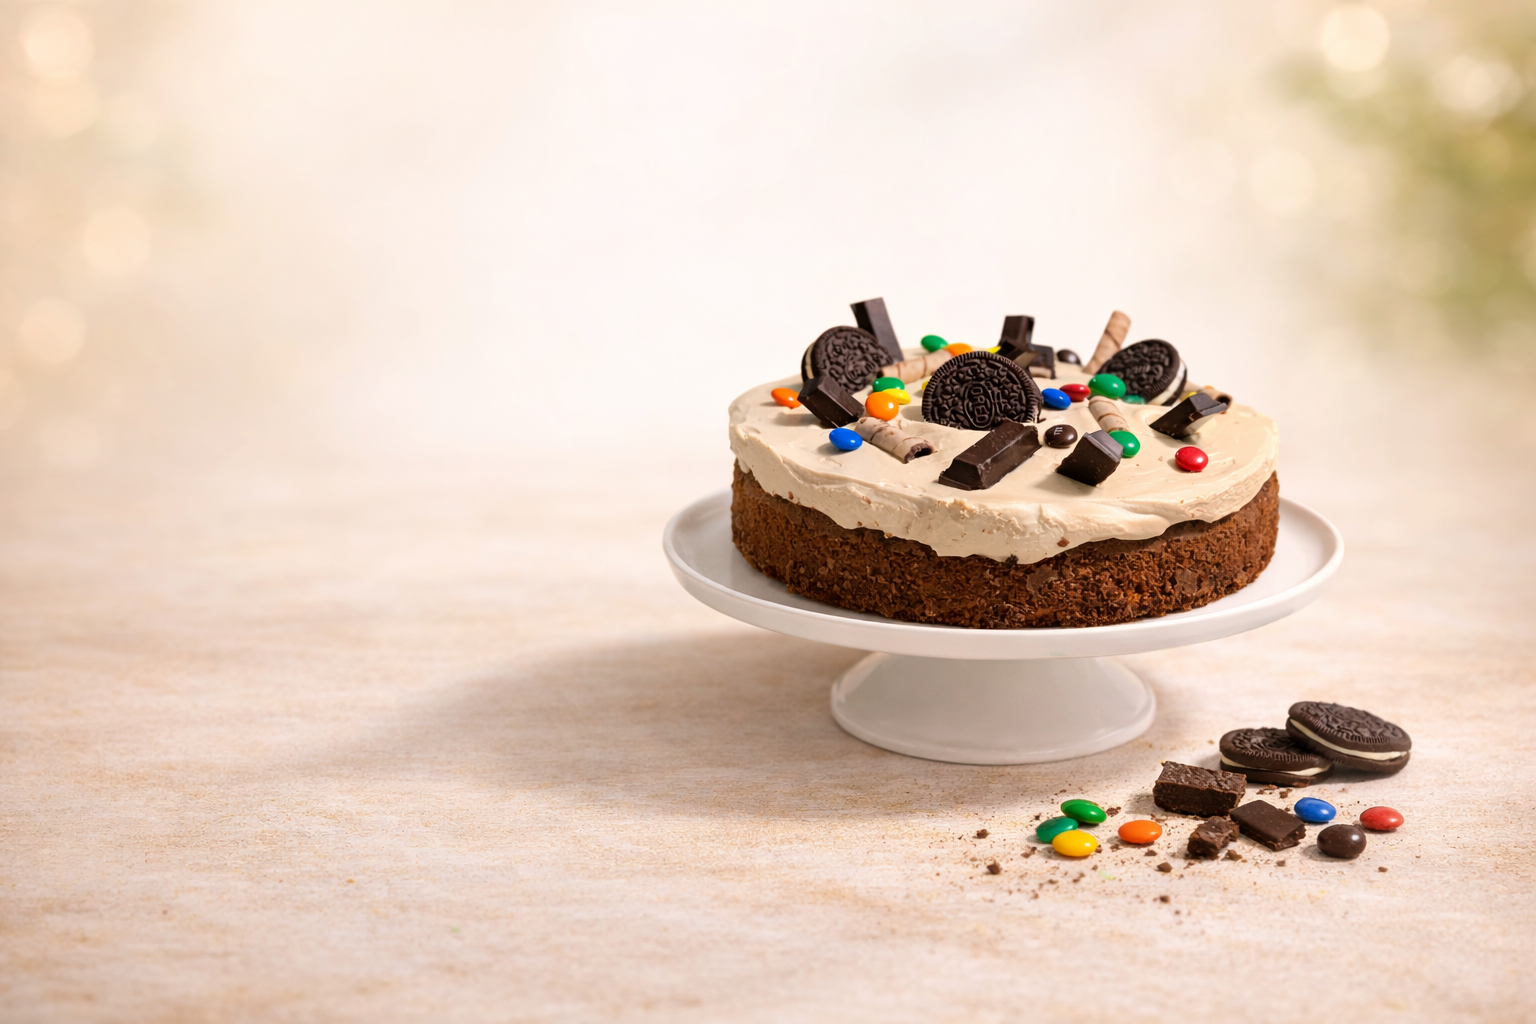
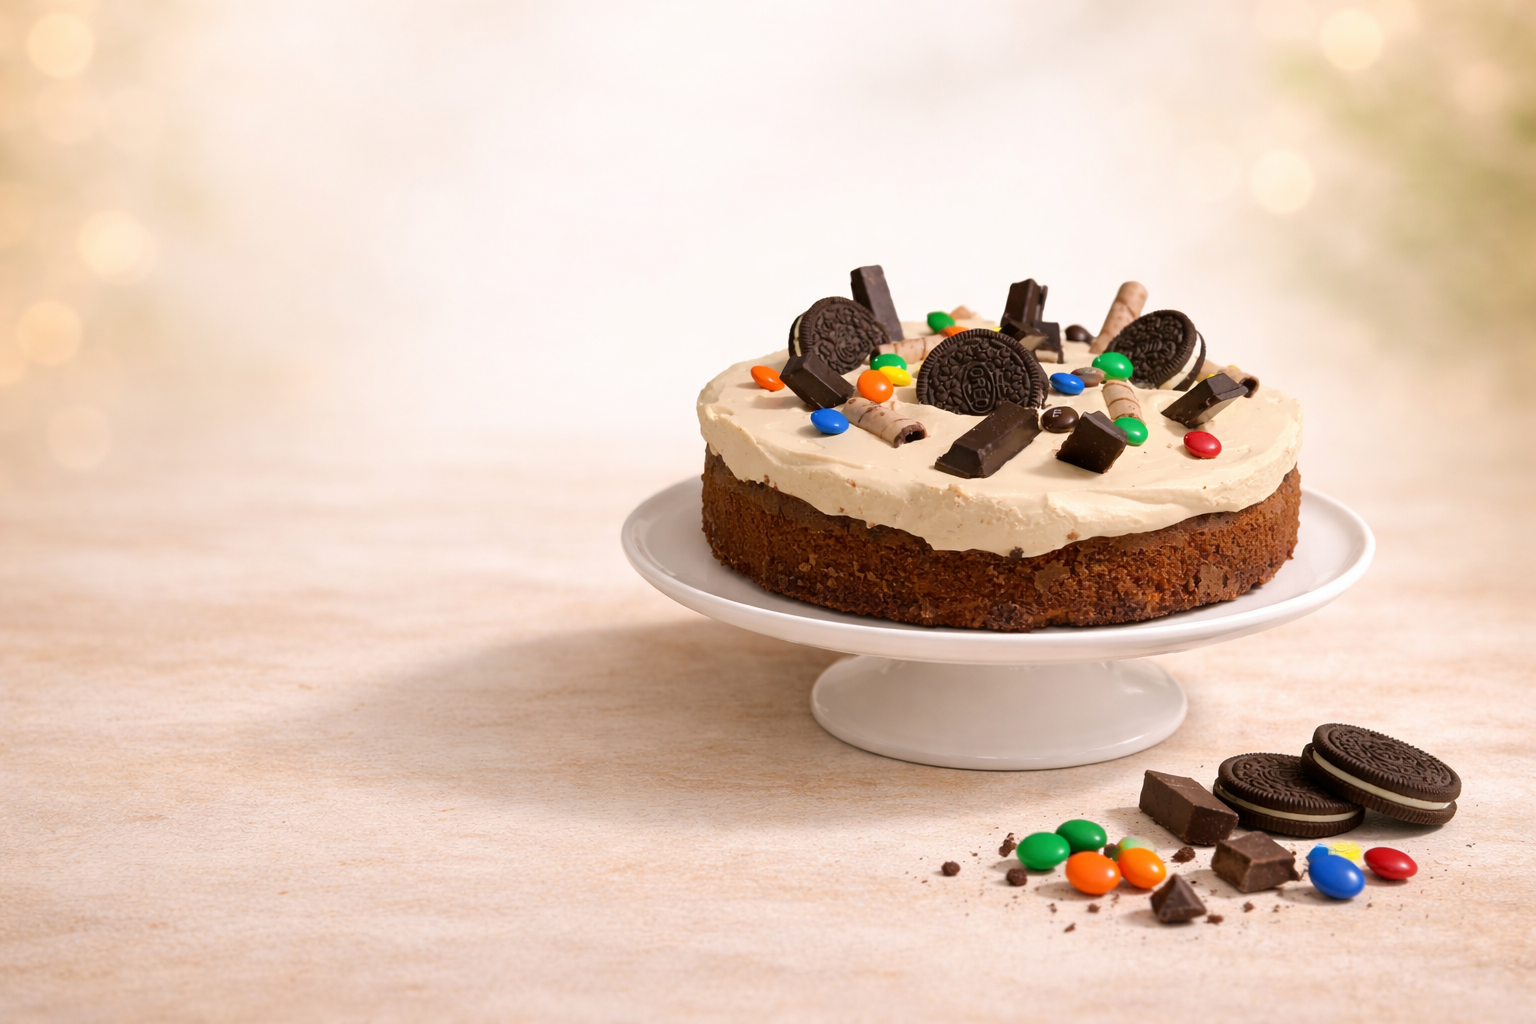
uploaded new photos

diff --git a/index.html b/index.html
@@ -65,58 +65,94 @@
       <div class="container">
         <div class="section-head">
           <h2>Explore Our Treats</h2>
-          <p class="section-sub">Small-batch desserts crafted with care and the finest ingredients.</p>
+          <p class="section-sub">Small-batch homemade goodness crafted with care and the finest ingredients.</p>
         </div>
 
-        <div class="product-grid">
-          <article class="product-card">
-            <div class="card-image">
-              <img src="https://images.unsplash.com/photo-1572442388796-11668a67e53d?w=400&h=300&fit=crop&q=80" alt="Handcrafted cookies with latte" loading="lazy">
-            </div>
-            <div class="card-body">
-              <div class="card-top">
-                <h3>Cookies Collection</h3>
-                <a href="#order" class="card-arrow" aria-label="Order cookies">
-                  <svg width="14" height="14" viewBox="0 0 24 24" fill="none" stroke="currentColor" stroke-width="2.5" stroke-linecap="round" stroke-linejoin="round"><path d="M5 12h14"/><path d="M12 5l7 7-7 7"/></svg>
-                </a>
+        <!-- Cookies -->
+        <div class="family-row">
+          <div class="family-header">
+            <div class="family-meta">
+              <span class="family-num">01</span>
+              <div>
+                <h3 class="family-title">Cookies</h3>
+                <p class="family-desc">Handcrafted small-batch — every bite tells a story.</p>
               </div>
-              <p class="card-tag">Small Batch</p>
-              <a href="#order" class="card-link">Order Now &#9654;</a>
             </div>
-          </article>
-
-          <article class="product-card">
-            <div class="card-image">
-              <img src="https://images.unsplash.com/photo-1571877227200-a0d98ea607e9?w=400&h=300&fit=crop&q=80" alt="Signature layered cake" loading="lazy">
+            <a href="#order" class="family-cta">Order Now <span class="family-cta-arrow">&#9654;</span></a>
+          </div>
+          <div class="family-images family-images--three">
+            <div class="family-img-wrap">
+              <img src="images/cookie1.png" alt="Handcrafted cookie" loading="lazy">
             </div>
-            <div class="card-body">
-              <div class="card-top">
-                <h3>Signature Cakes</h3>
-                <a href="#order" class="card-arrow" aria-label="Order cakes">
-                  <svg width="14" height="14" viewBox="0 0 24 24" fill="none" stroke="currentColor" stroke-width="2.5" stroke-linecap="round" stroke-linejoin="round"><path d="M5 12h14"/><path d="M12 5l7 7-7 7"/></svg>
-                </a>
-              </div>
-              <p class="card-tag">Custom Made</p>
-              <a href="#order" class="card-link">Order Now &#9654;</a>
+            <div class="family-img-wrap">
+              <img src="images/cookie2.png" alt="Assorted cookies" loading="lazy">
             </div>
-          </article>
-
-          <article class="product-card">
-            <div class="card-image">
-              <img src="https://images.unsplash.com/photo-1565958011703-44f9829ba187?w=400&h=300&fit=crop&q=80" alt="Artisanal sour treats" loading="lazy">
+            <div class="family-img-wrap">
+              <img src="images/cookie3.png" alt="Premium cookie selection" loading="lazy">
             </div>
-            <div class="card-body">
-              <div class="card-top">
-                <h3>Sour Snacks</h3>
-                <a href="#order" class="card-arrow" aria-label="Order sour snacks">
-                  <svg width="14" height="14" viewBox="0 0 24 24" fill="none" stroke="currentColor" stroke-width="2.5" stroke-linecap="round" stroke-linejoin="round"><path d="M5 12h14"/><path d="M12 5l7 7-7 7"/></svg>
-                </a>
-              </div>
-              <p class="card-tag">Artisanal</p>
-              <a href="#order" class="card-link">Order Now &#9654;</a>
-            </div>
-          </article>
+          </div>
         </div>
+
+        <!-- Cakes -->
+        <div class="family-row">
+          <div class="family-header">
+            <div class="family-meta">
+              <span class="family-num">02</span>
+              <div>
+                <h3 class="family-title">Signature Cakes</h3>
+                <p class="family-desc">Custom made to order — for every celebration.</p>
+              </div>
+            </div>
+            <a href="#order" class="family-cta">Order Now <span class="family-cta-arrow">&#9654;</span></a>
+          </div>
+          <div class="family-images family-images--single">
+            <div class="family-img-wrap">
+              <img src="images/cake1.jpg" alt="Signature layered cake" loading="lazy">
+            </div>
+          </div>
+        </div>
+
+        <!-- Baklava -->
+        <div class="family-row">
+          <div class="family-header">
+            <div class="family-meta">
+              <span class="family-num">03</span>
+              <div>
+                <h3 class="family-title">Baklava</h3>
+                <p class="family-desc">Flaky, golden layers of honey and roasted nuts.</p>
+              </div>
+            </div>
+            <a href="#order" class="family-cta">Order Now <span class="family-cta-arrow">&#9654;</span></a>
+          </div>
+          <div class="family-images family-images--single">
+            <div class="family-img-wrap">
+              <img src="images/baklava.png" alt="Artisanal baklava" loading="lazy">
+            </div>
+          </div>
+        </div>
+
+        <!-- Finger Food -->
+        <div class="family-row">
+          <div class="family-header">
+            <div class="family-meta">
+              <span class="family-num">04</span>
+              <div>
+                <h3 class="family-title">Finger Food</h3>
+                <p class="family-desc">Savory bites perfect for gatherings and events.</p>
+              </div>
+            </div>
+            <a href="#order" class="family-cta">Order Now <span class="family-cta-arrow">&#9654;</span></a>
+          </div>
+          <div class="family-images family-images--two">
+            <div class="family-img-wrap">
+              <img src="images/fingerfood1.png" alt="Savory finger food" loading="lazy">
+            </div>
+            <div class="family-img-wrap">
+              <img src="images/fingerfood2.png" alt="Artisanal finger food" loading="lazy">
+            </div>
+          </div>
+        </div>
+
       </div>
     </section>
 

diff --git a/styles.css b/styles.css
@@ -475,108 +475,154 @@ h2 em {
 }
 
 /* ═══════════════════════════
-   PRODUCTS
+   PRODUCTS — Family Rows
    ═══════════════════════════ */
 .products {
-  padding: 4rem 0 5rem;
+  padding: 5rem 0 6rem;
   background: var(--cream);
 }
 
-.product-grid {
-  display: grid;
-  grid-template-columns: repeat(3, 1fr);
-  gap: 1.5rem;
+/* ── Family Row ── */
+.family-row {
+  padding: 2.75rem 0;
+  border-bottom: 1px solid rgba(61,43,31,0.07);
+}
+.family-row:last-child {
+  border-bottom: none;
+  padding-bottom: 0;
 }
 
-.product-card {
-  background: var(--warm-white);
-  border-radius: var(--r);
-  overflow: hidden;
-  border: 1px solid rgba(61,43,31,0.05);
-  transition: transform 0.35s cubic-bezier(0.22,1,0.36,1), box-shadow 0.35s;
-}
-.product-card:hover {
-  transform: translateY(-6px);
-  box-shadow: var(--shadow-lg);
-}
-
-.card-image {
-  padding: 1rem 1rem 0;
-}
-.card-image img {
-  width: 100%;
-  height: 200px;
-  object-fit: cover;
-  border-radius: 12px;
-}
-
-.card-body {
-  padding: 1.15rem 1.25rem 1.25rem;
-}
-.card-top {
+.family-header {
   display: flex;
-  align-items: flex-start;
+  align-items: flex-end;
   justify-content: space-between;
-  gap: 0.5rem;
+  gap: 1rem;
+  margin-bottom: 1.25rem;
 }
-.card-top h3 {
+
+.family-meta {
+  display: flex;
+  align-items: center;
+  gap: 1.1rem;
+}
+
+.family-num {
   font-family: var(--font-display);
-  font-size: 1.15rem;
-  font-weight: 600;
+  font-size: 3rem;
+  font-weight: 700;
+  color: rgba(61,43,31,0.07);
+  line-height: 1;
+  min-width: 3.5rem;
+  user-select: none;
+}
+
+.family-title {
+  font-family: var(--font-display);
+  font-size: 1.45rem;
+  font-weight: 700;
   color: var(--brown);
+  margin: 0 0 0.2rem;
+  line-height: 1.2;
+}
+
+.family-desc {
+  font-size: 0.87rem;
+  color: var(--soft-brown);
   margin: 0;
 }
 
-.card-arrow {
-  display: flex;
+.family-cta {
+  display: inline-flex;
   align-items: center;
-  justify-content: center;
-  width: 32px;
-  height: 32px;
-  min-width: 32px;
-  background: var(--maroon);
-  color: #fff;
-  border-radius: 50%;
-  text-decoration: none;
-  transition: background 0.2s, transform 0.2s;
-}
-.card-arrow:hover {
-  background: var(--brown);
-  transform: scale(1.1);
-}
-
-.card-tag {
+  gap: 0.45rem;
   font-size: 0.82rem;
-  color: var(--soft-brown);
-  margin: 0.2rem 0 0;
-}
-
-.card-link {
-  display: inline-block;
-  font-size: 0.8rem;
   font-weight: 600;
+  letter-spacing: 0.02em;
   color: var(--maroon);
   text-decoration: none;
-  margin-top: 0.6rem;
-  transition: color 0.2s;
+  white-space: nowrap;
+  padding: 0.5rem 1.2rem;
+  border: 1.5px solid var(--maroon);
+  border-radius: 999px;
+  transition: background 0.2s, color 0.2s, transform 0.2s;
 }
-.card-link:hover { color: var(--brown); }
+.family-cta:hover {
+  background: var(--maroon);
+  color: #fff;
+  transform: translateY(-1px);
+}
+.family-cta-arrow {
+  font-size: 0.6rem;
+  transition: transform 0.2s;
+}
+.family-cta:hover .family-cta-arrow {
+  transform: translateX(3px);
+}
 
-@media (max-width: 768px) {
-  .product-grid {
-    grid-template-columns: 1fr;
-    max-width: 400px;
-    margin: 0 auto;
-  }
+/* ── Image Grid ── */
+.family-images {
+  display: grid;
+  gap: 0.85rem;
 }
-@media (min-width: 769px) and (max-width: 1024px) {
-  .product-grid {
+
+.family-images--three {
+  grid-template-columns: repeat(3, 1fr);
+}
+
+.family-images--two {
+  grid-template-columns: repeat(2, 1fr);
+}
+
+.family-images--single {
+  grid-template-columns: 1fr;
+}
+
+.family-img-wrap {
+  border-radius: 18px;
+  overflow: hidden;
+  background: var(--beige);
+  position: relative;
+  aspect-ratio: 4 / 3;
+}
+
+.family-images--single .family-img-wrap {
+  aspect-ratio: 21 / 9;
+}
+
+.family-img-wrap img {
+  width: 100%;
+  height: 100%;
+  object-fit: cover;
+  display: block;
+  transition: transform 0.55s cubic-bezier(0.22, 1, 0.36, 1);
+}
+
+.family-img-wrap:hover img {
+  transform: scale(1.045);
+}
+
+/* ── Responsive ── */
+@media (max-width: 768px) {
+  .family-header {
+    flex-direction: column;
+    align-items: flex-start;
+    gap: 0.85rem;
+  }
+  .family-images--three {
     grid-template-columns: repeat(2, 1fr);
   }
-  .product-card:last-child {
-    grid-column: 1 / -1;
-    max-width: 50%;
-    margin: 0 auto;
+  .family-images--single .family-img-wrap {
+    aspect-ratio: 4 / 3;
+  }
+}
+
+@media (max-width: 480px) {
+  .family-images--three,
+  .family-images--two {
+    grid-template-columns: 1fr;
+  }
+  .family-num {
+    font-size: 2.2rem;
   }
 }
 

diff --git a/script.js b/script.js
@@ -42,7 +42,7 @@
 
   // ── Scroll reveal ──
   var revealEls = document.querySelectorAll(
-    ".product-card, .service-text, .service-image, .order-text, " +
+    ".family-row, .service-text, .service-image, .order-text, " +
     ".order-form-wrap, .section-head, .hero-text, .hero-image"
   );
 
